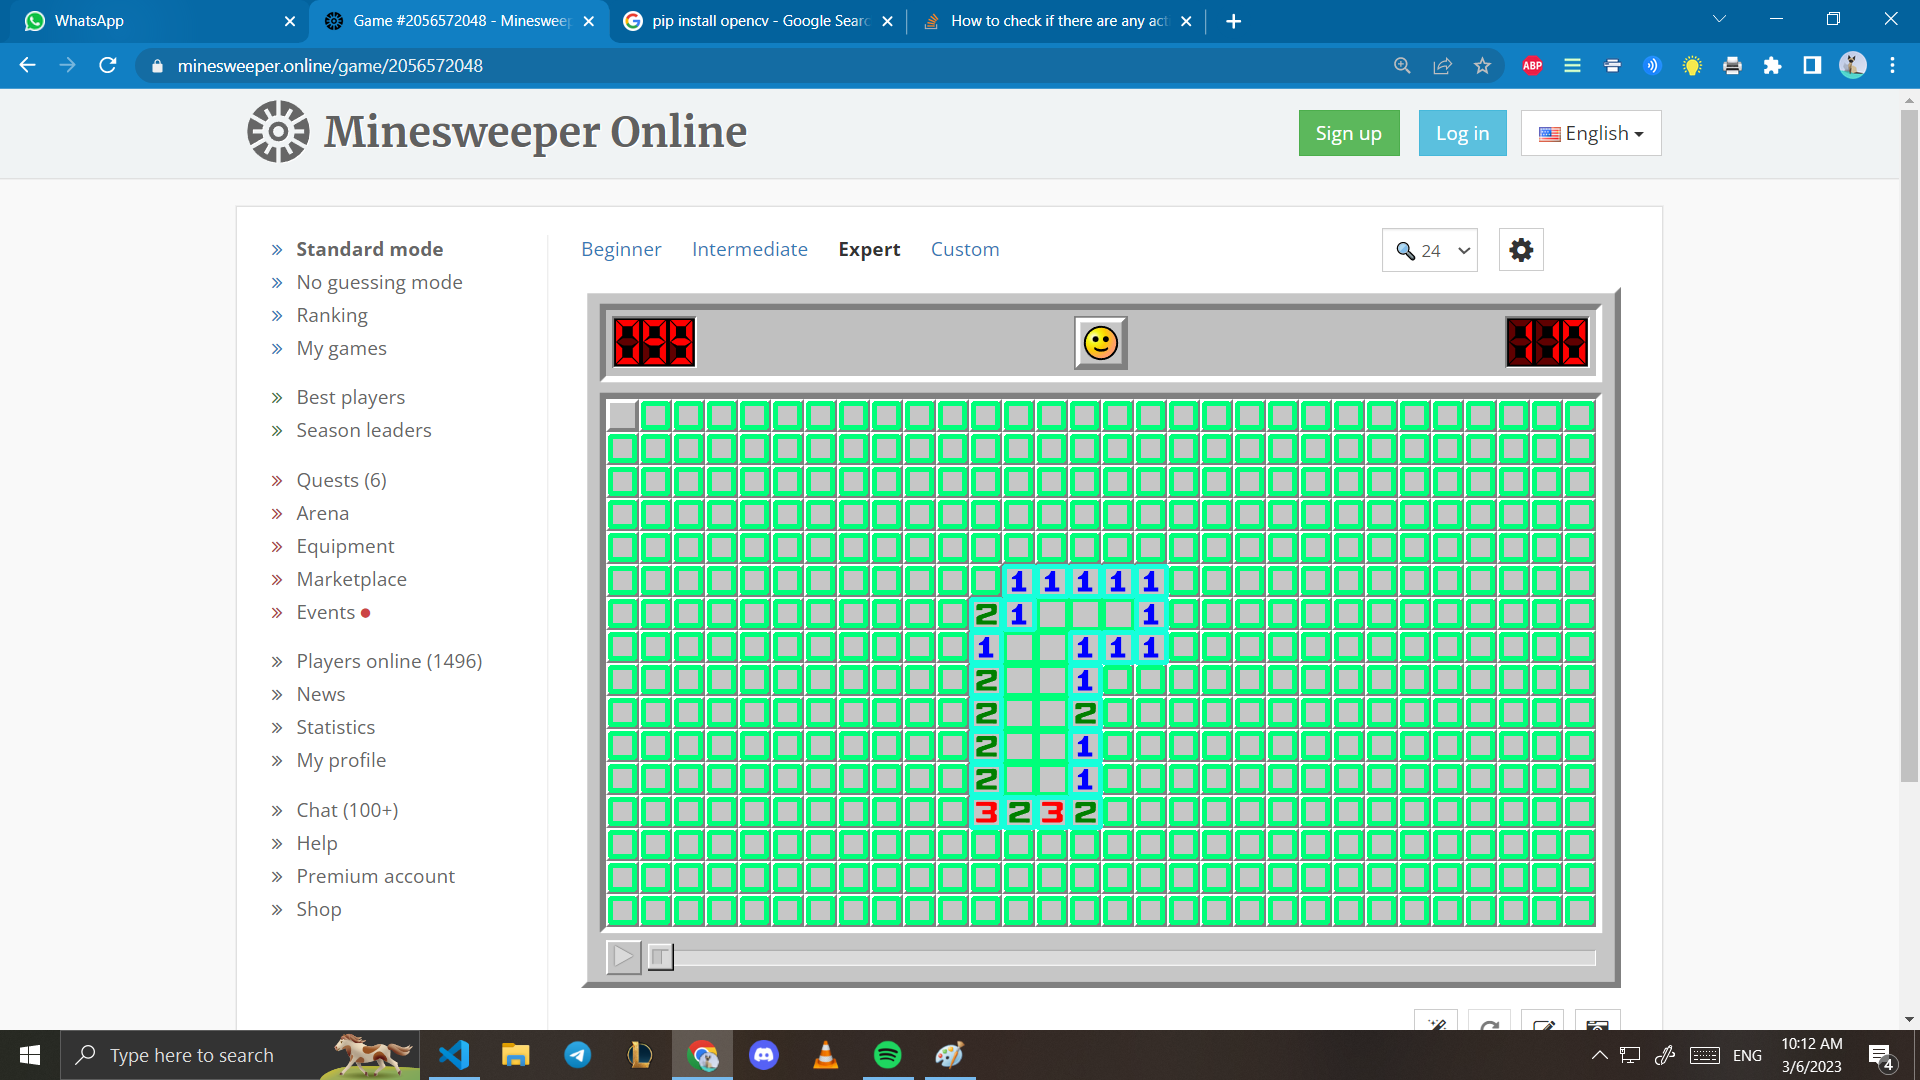
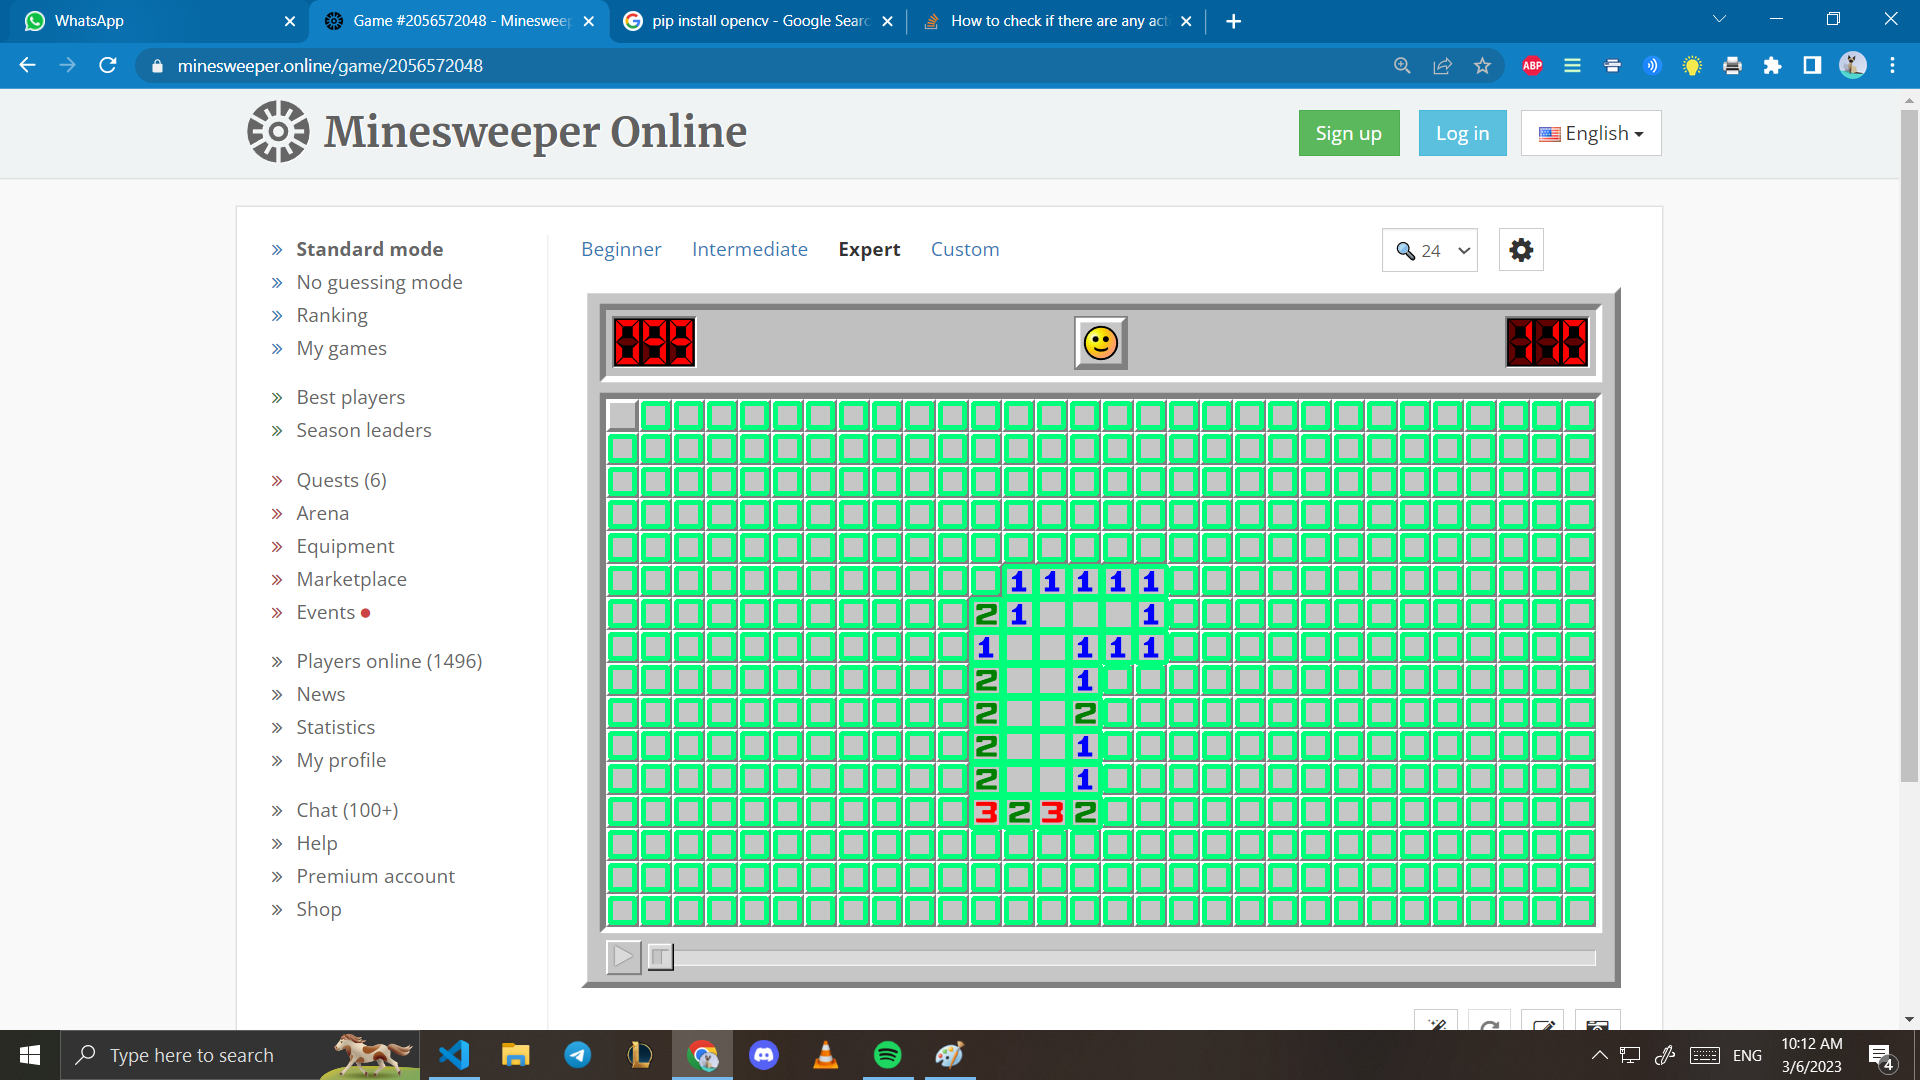
checking number control

Changed region(s): [[0.5, 0.5194, 0.625, 0.7944]]

diff --git a/capture_test.py b/capture_test.py
@@ -24,9 +24,11 @@ def find_squares(mask, last_square):
     squares = []
     numbers = []
     num_index = []
+
     hierarch= []
     count = 0
     if len(last_square) != 0:
+        count+=1
         squares.append(last_square)
     for contour, h in zip(contours, hierarchy[0]):
         # approximate the contour
@@ -40,6 +42,8 @@ def find_squares(mask, last_square):
             if h[2] != -1:
                 numbers.append(approx)
                 num_index.append(count)
+            else:
+                numbers.append(0)
             count+=1
     
     return squares, numbers, num_index
@@ -52,6 +56,7 @@ print(squares[0])
 def get_height_width(squares):
     # sort the squares by their y value
     squares = sorted(squares, key=lambda x: x[0][0][1], reverse=True)
+    
     # get the squares that are in the first row
     first_row = []
     for square in squares:
@@ -97,28 +102,43 @@ def add_last_square(squares):
 
 last_square = add_last_square(squares)
 cv2.drawContours(img, squares, -1, (122, 255, 0), 3)
-cv2.drawContours(img, numbers, -1, (219, 255, 23), 3)
+#cv2.drawContours(img, numbers, -1, (219, 255, 23), 3)
 cv2.imwrite("D:\\minesweeper\\minesweeper\\Untitled4.png", img)
 
 
 
-preds = []
-for number in numbers:
-    preds.append(knn.predict([cv2.resize(mask[number[0][0][1]:number[2][0][1], number[0][0][0]:number[2][0][0]], (27,27)).flatten()])[0])
+# preds = []
+# for number in numbers:
+#     preds.append(knn.predict([cv2.resize(mask[number[0][0][1]:number[2][0][1], number[0][0][0]:number[2][0][0]], (27,27)).flatten()])[0])
 # write each prediction on top of the square it is in
-for i, square in enumerate(numbers):
-    cv2.putText(img, str(preds[i]), (square[0][0][0], square[0][0][1]), cv2.FONT_HERSHEY_SIMPLEX, .5, (255, 0, 0), 2)
-cv2.imwrite("D:\\minesweeper\\minesweeper\\finished.png", img)
+# for i, square in enumerate(numbers):
+#     cv2.putText(img, str(preds[i]), (square[0][0][0], square[0][0][1]), cv2.FONT_HERSHEY_SIMPLEX, .5, (255, 0, 0), 2)
+# cv2.imwrite("D:\\minesweeper\\minesweeper\\finished.png", img)
 
 from game import make_hidden_grid
 squares, numbers, num_index = find_squares(mask, last_square)
-print(squares[0])
 height, width =get_height_width(squares)
-for i in num_index:
-    print(i)
-    axis = get_axis(i, width)
-    print(axis)
-hidden_grid =make_hidden_grid(height, height)
+# sort numbers depending on the square list y value
+# numbers = [x for _, x in sorted(zip(squares, numbers), key=lambda pair: pair[0][0][0][1], reverse=True)]
+
+for i, number in enumerate(numbers):
+    if type(number) != int:
+        print(i)
+        print(get_axis(i, width))
+# for i, square in enumerate(numbers):
+#     if type(square) != int:
+#         cv2.putText(img, str(i), (square[0][0][0], square[0][0][1]), cv2.FONT_HERSHEY_SIMPLEX, .5, (255, 0, 0), 2)
+for i, square in enumerate(squares):
+    cv2.putText(img, str(i), (square[0][0][0], square[0][0][1]), cv2.FONT_HERSHEY_SIMPLEX, .5, (255, 0, 0), 2)
+cv2.imwrite("D:\\minesweeper\\minesweeper\\finished.png", img)
+
+
+# for i in num_index:
+#     actual_index = i-2
+#     print(actual_index)
+#     print(get_axis(actual_index, width))
+
+hidden_grid =make_hidden_grid(width,height)
 
 
 
